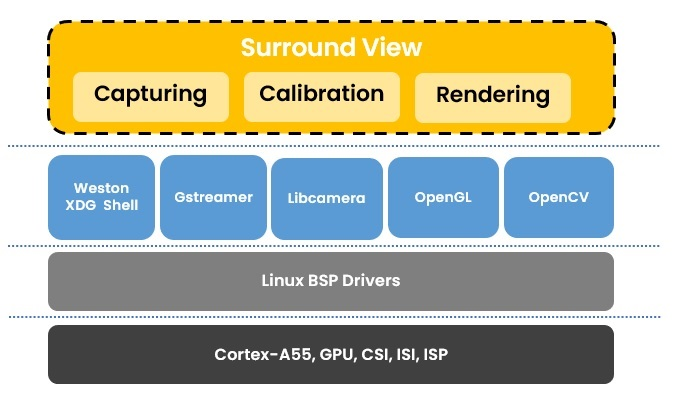
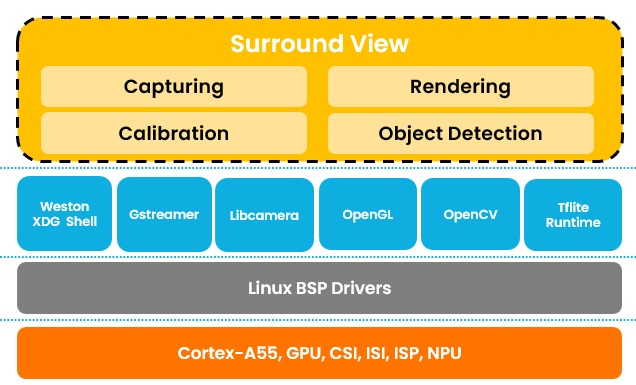
Updata the ReadMe file

diff --git a/README.md b/README.md
@@ -54,16 +54,17 @@ It renders the camera frames on a prepared 3D mesh and blends them.
   2. Load blending mask from external files.
   3. Load 3D car model.
   4. Load camera frames from static images.
-  5. Directly map the camera frames on 3D plane with use of OpenGL.
-  6. Blend the frames with use of OpenGL shaders.
-  7. Apply exposure correction.
+  5. Perform NPU-based pedestrian detection on each camera frame.
+  6. Directly map the camera frames on 3D plane with use of OpenGL.
+  7. Blend the frames with use of OpenGL shaders.
+  8. Apply exposure correction.
 
 OpenCV library is used for images, videos and masks loading.
 Assimp library is used for 3D car model loading.
 GLM library is used for view rotation/translation on the screen.
 OpenGL ES library is used for rendering.
 
-Person detection has been added in this version. Detected pedestrians are highlighted in red according to their direction.
+Pedestrian detection has been added in this version. Detected pedestrians are highlighted in red according to their direction.
 
 There are 2 input types in this demo, camera input and video input, camera input uses 4 fisheye cameras, video input uses 4 clips of video instead of real cameras.
 
@@ -127,7 +128,8 @@ Steps for compiling and running the SV3D project on i.MX target board:
   2. Set the environment parameter:
 
 ``` bash  
-    export LD_LIBRARY_PATH=/usr/lib/plugins/wayland-shell-integration/
+	export LD_LIBRARY_PATH=/usr/lib/plugins/wayland-shell-integration/
+	export LIBCAMERA_PIPELINES_MATCH_LIST='nxp/neo,imx8-isi,uvc'
 ```  
 
   3. Go to the App/Build folder, Copy the calibration file.
@@ -153,23 +155,27 @@ Steps for compiling and running the SV3D project on i.MX target board:
   
   ![test](App/Content/image/output_video.gif)
 
-## 5 Known issue
-This demo requires aligning 4 camera previews, in L6.6.52, libcamera don't support the configuration of the camera orientation.
-We can change the sensor driver to ajust the camera orientation:
+  Demo with Pedestrian detection:
+  
+  ![test](App/Content/image/Pedestrian_detection.jpg)
 
-``` bash  
-drivers/media/i2c/ox03c10.c
--	{ 0x3820, 0x20 }, { 0x3821, 0x19 }, { 0x3832, 0x00 }, { 0x3834, 0x00 }, { 0x384c, 0x02 },
-+	{ 0x3820, 0x00 }, { 0x3821, 0x19 }, { 0x3832, 0x00 }, { 0x3834, 0x00 }, { 0x384c, 0x02 },
-``` 
+## 5. Change history
 
-libcamera will support camera orientation configuration in the future release.
+### [1.1.0] - 2026-06-03
+**-New Features**
+- Added NPU-based pedestrian detection.
+- Highlight pedestrians in red according to their direction.
+
+### [1.0.0] - 2025-03-11
+**-Initial Release**
+- First public release of Surround View system.
+
 
 ## 6. Release Notes
 
 Version | Description                         | Date                           | tag
 ---     | ---                                 | ---                            | --- 
-1.1.0   | Version upgrade                     | May 29<sup>th</sup> 2026       | imx_ec_sv_v1.1
+1.1.0   | Version upgrade                     | June 03<sup>th</sup> 2026       | imx_ec_sv_v1.1.0
 1.0.0   | Initial release                     | Mar 11<sup>th</sup> 2025       | imx_ec_sv_v1.0
 
 ## Licensing
